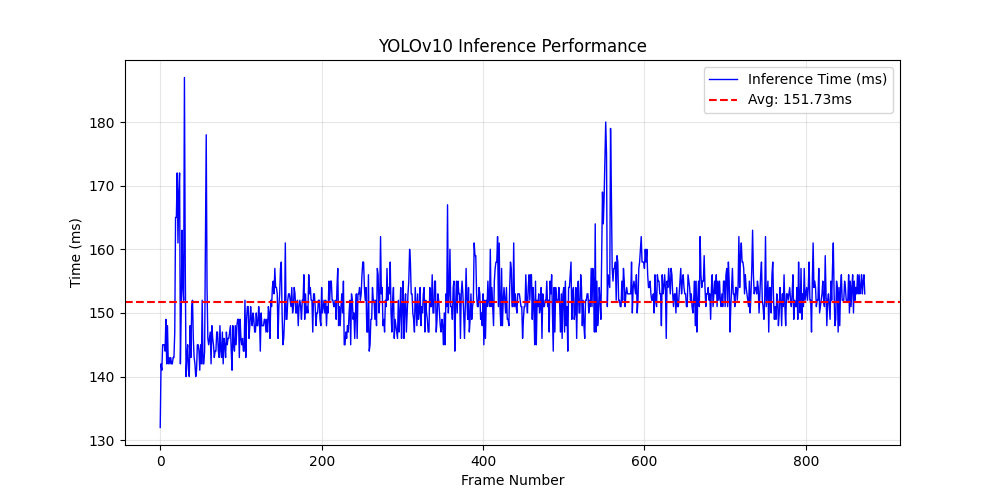
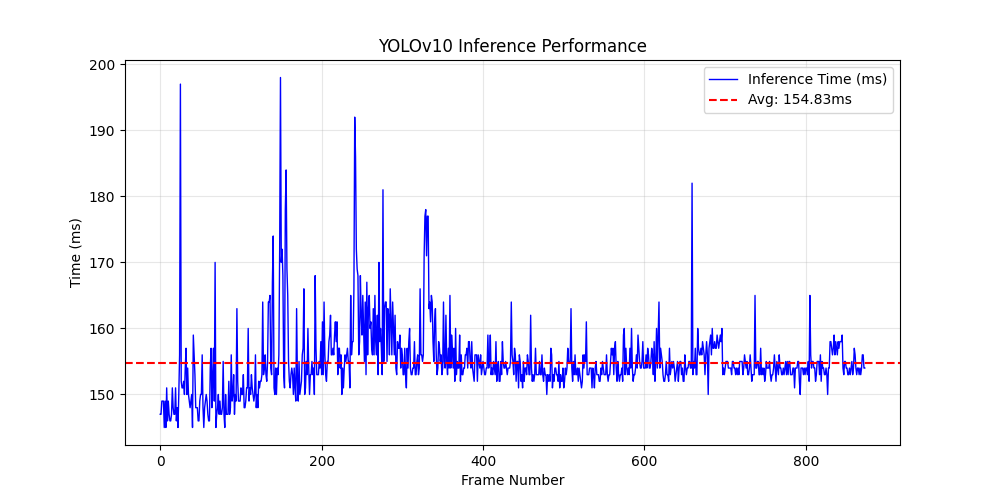
anotherone

diff --git a/track_bin.py b/track_bin.py
@@ -670,7 +670,7 @@ def main():
         plot_inference_performance(inference_times, args)
 
     # end of 2d ============================================
-    print(stop_positions)
+    # print(stop_positions)
     plot_world_trajectory(trajectory, stop_positions, save_path="./results/trajectory.png")
     if kf is not None:
         kf.plot_raw_vs_filtered_position(trajectory, trajectory_KF)

diff --git a/readme.md b/readme.md
@@ -180,6 +180,12 @@ frame_id,timestamp_ms,x_cam,y_cam,z_cam,confidence
 0009,300,0.02,0.21,3.02,0.78
 0010,334,0.02,0.21,3.02,0.80
 ```
+
+
+<img src="./results/justification3.png" alt="Proof" width="500"/>
+<img src="./results/justification4.png" alt="Proof" width="500"/>
+
+
 ---
 <!-- ---================================================================================================================== -->
 
@@ -201,6 +207,12 @@ frame_id,t_ms,x_cam,y_cam,z_cam,x_world,y_world,z_world,conf
 0009,300,0.02,0.21,3.02,2.87,-0.02,0.37,0.78
 0010,334,0.02,0.21,3.02,2.87,-0.02,0.37,0.80
 ```
+
+The following screenshots shows the justification of the code:
+
+<img src="./results/justification1.png" alt="Proof" width="500"/>
+<img src="./results/justification2.png" alt="Proof" width="500"/>
+
 ---
 <!-- ---================================================================================================================== -->
 